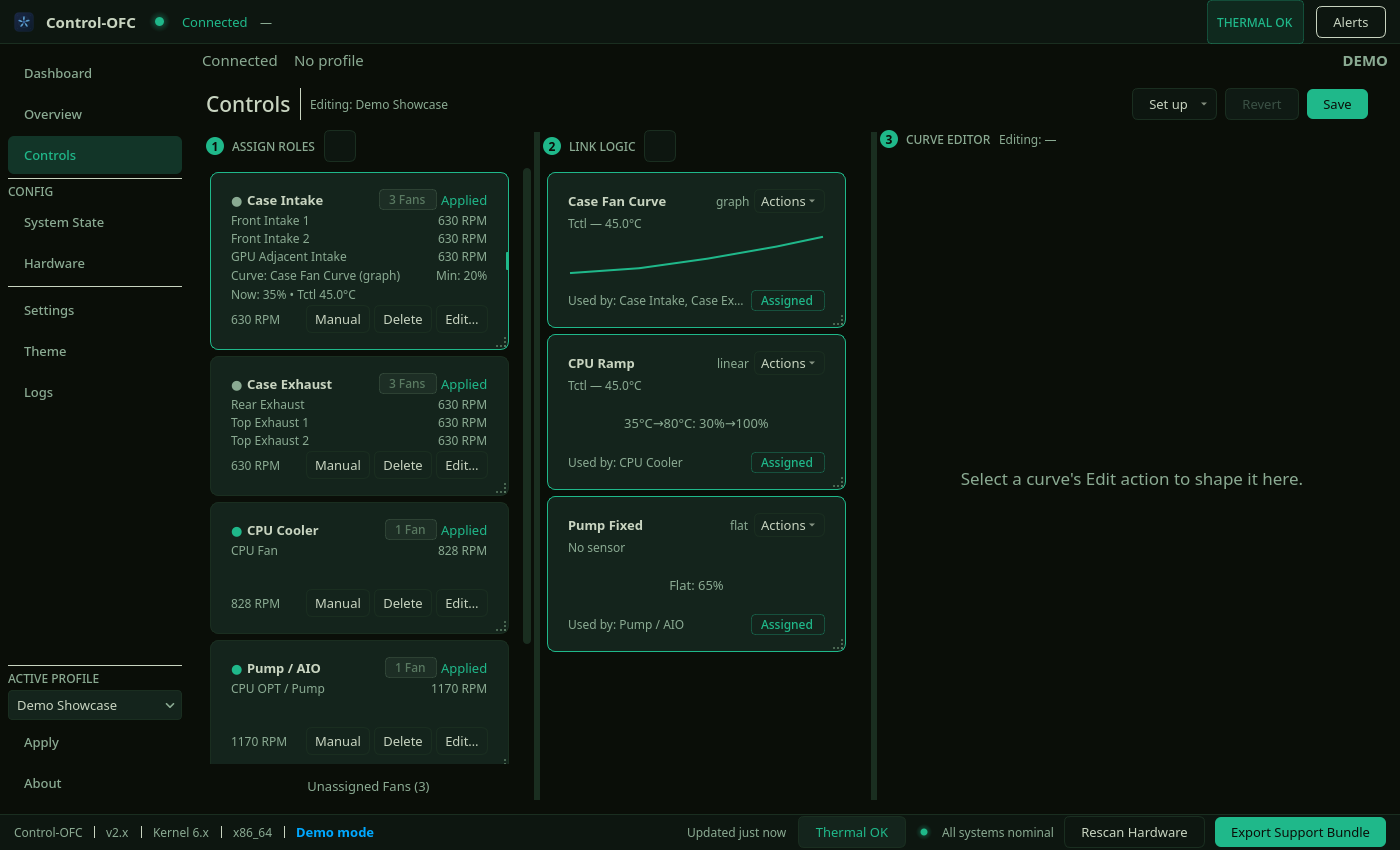
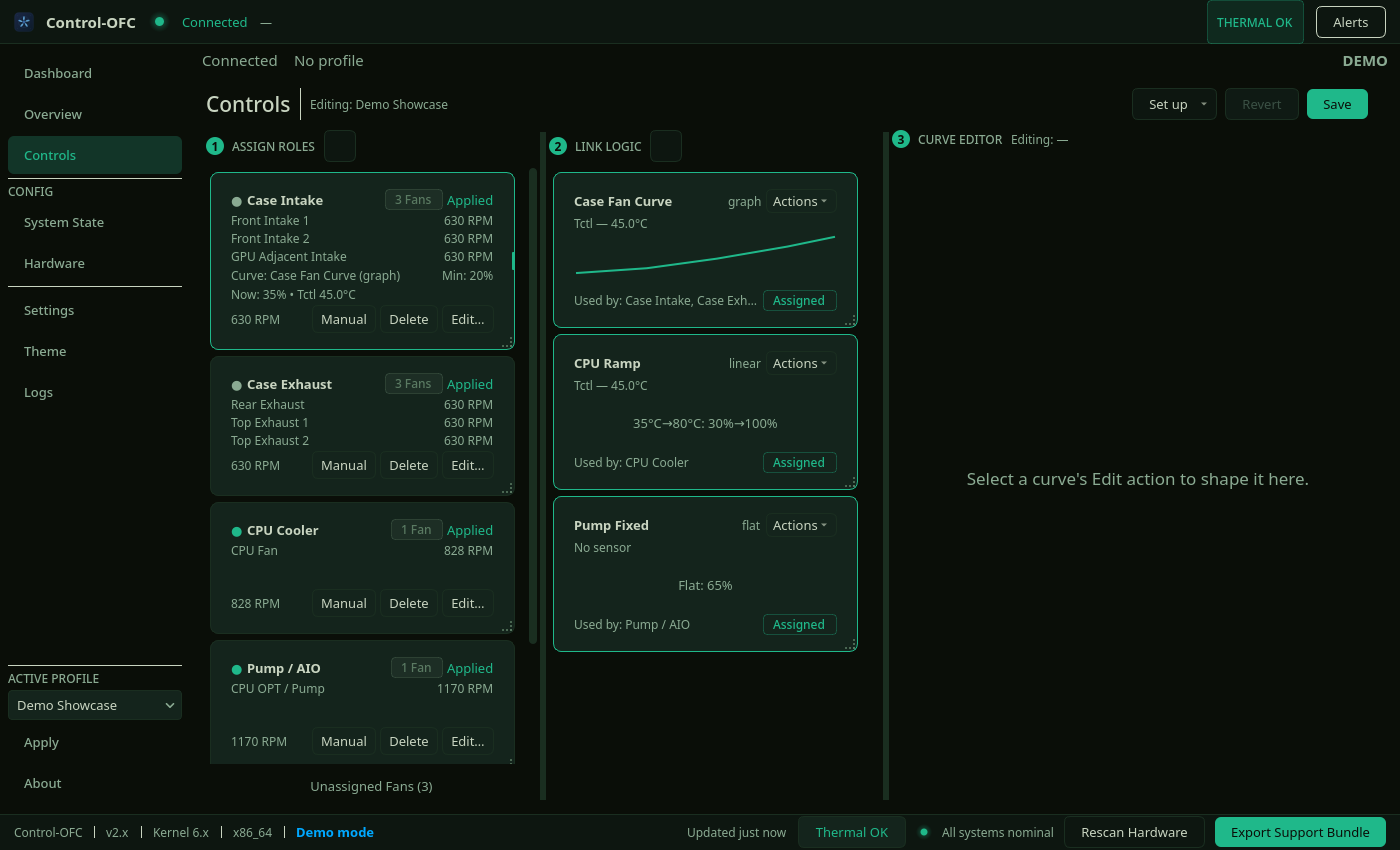
release: v2.49.3 — card sizing measured in the app's own font
Folds the accumulated Unreleased entries into the [2.49.3] section that
58a6cca opened, and moves the two docs/08 corrections under Documentation
so the section leads with the two user-visible fixes.

Version metadata (pyproject.toml 2.49.3, packaging/PKGBUILD pkgver 2.49.3)
was already committed by 58a6cca; this commit adds the README release line
and the recaptured screenshots.

Screenshots: src/control_ofc/ui/ moved this release, so the capture pipeline
was re-run. Three files differ, all bound-boxed rather than eyeballed:
02_controls (306,130)-(1307,799) is the card-width change; 03_overview
(262,295)-(573,307) is the one text line of the age note; 01_dashboard
(1302,178)-(1326,390) is a 25px strip at the chart's right edge — the
documented two-variant capture residual, not a UI change.

manual/ was grepped for the retracted age wording and does not quote it.

diff --git a/CHANGELOG.md b/CHANGELOG.md
@@ -1,6 +1,6 @@
 # Changelog
 
-## [Unreleased]
+## [2.49.3] — 2026-08-31
 
 ### Fixed
 - **Controls cards were one pixel from eliding text they promise never to
@@ -26,6 +26,22 @@
   asserts a minimum headroom (with the resolved font family checked first) rather
   than a bare fit. (285-h)
 
+- **The Overview page explained the subsystem age with a sentence that is no
+  longer true.** It read *"Age = time since daemon last polled this hardware
+  subsystem"*. On daemon ≥ 2.24.2 the `openfan` and `hwmon` entries report the
+  worse of two things — whether the poll loop is alive, and whether the data it
+  returned is fresh — so when a poll is running but not covering every channel,
+  the age shown is the **oldest reading's**, not the poll's (paired daemon
+  change, DEC-302).
+
+  The old wording described exactly the number that used to let a frame covering
+  three of ten fan channels report *"readings fresh"* while the other seven aged
+  without bound. Leaving it in place would have pointed the user at the poll at
+  the very moment the new signal is trying to tell them the poll is fine and the
+  data is not. It now reads *"Age = how long ago this subsystem's data was last
+  refreshed"*. (DEC-302)
+
+### Documentation
 - **The API contract quoted two daemon engine-health reasons that no released
   daemon has ever emitted.** `docs/08` documented `"a backend write has not
   returned — fans are holding their last duty"` and `"writes wedged — the engine
@@ -49,24 +65,6 @@
   feature so gated shipped in **2.23.5**, and all seven gates now say so. Harmless
   under a `>=` comparison, since no daemon could report those versions, but the
   contract was naming releases a reader cannot obtain. (298-a)
-
-## [2.49.3] — 2026-08-31
-
-### Fixed
-- **The Overview page explained the subsystem age with a sentence that is no
-  longer true.** It read *"Age = time since daemon last polled this hardware
-  subsystem"*. On daemon ≥ 2.24.2 the `openfan` and `hwmon` entries report the
-  worse of two things — whether the poll loop is alive, and whether the data it
-  returned is fresh — so when a poll is running but not covering every channel,
-  the age shown is the **oldest reading's**, not the poll's (paired daemon
-  change, DEC-302).
-
-  The old wording described exactly the number that used to let a frame covering
-  three of ten fan channels report *"readings fresh"* while the other seven aged
-  without bound. Leaving it in place would have pointed the user at the poll at
-  the very moment the new signal is trying to tell them the poll is fine and the
-  data is not. It now reads *"Age = how long ago this subsystem's data was last
-  refreshed"*. (DEC-302)
 
 ## [2.49.2] — 2026-08-29
 

diff --git a/README.md b/README.md
@@ -1,6 +1,6 @@
 # Control-OFC GUI
 
-**Latest release:** v2.49.2 — 2026-08-29. Pairs with `control-ofc-daemon` ≥ v2.11.0 (v2.16.0 or newer for the Settings ▸ Daemon Configuration card, v2.17.0 for the Dashboard's fan-control-engine health banner, v2.18.0 for Rescan Hardware to also look for an OpenFan controller, v2.21.0 for the Controls page's "Not controlled" badge, v2.22.0 for the live output figure on each Controls card and the Dashboard's unresolved-control warning, v2.23.0 for removing a profile search directory, v2.24.0 for the thermal-forcing verify refusal this release shows as a soft notice; all stand down gracefully on older daemons). See [`CHANGELOG.md`](CHANGELOG.md) for the full history.
+**Latest release:** v2.49.3 — 2026-08-31. Pairs with `control-ofc-daemon` ≥ v2.11.0 (v2.16.0 or newer for the Settings ▸ Daemon Configuration card, v2.17.0 for the Dashboard's fan-control-engine health banner, v2.18.0 for Rescan Hardware to also look for an OpenFan controller, v2.21.0 for the Controls page's "Not controlled" badge, v2.22.0 for the live output figure on each Controls card and the Dashboard's unresolved-control warning, v2.23.0 for removing a profile search directory, v2.24.0 for the thermal-forcing verify refusal shown as a soft notice, v2.24.2 for the subsystem age this release describes as data freshness rather than poll time; all stand down gracefully on older daemons). See [`CHANGELOG.md`](CHANGELOG.md) for the full history.
 
 Desktop fan control interface for Linux. Communicates with the [`control-ofc-daemon`](https://github.com/Plan-B-Development/control-ofc-daemon) service to monitor temperatures, manage fan speeds, and apply custom fan curves.
 
